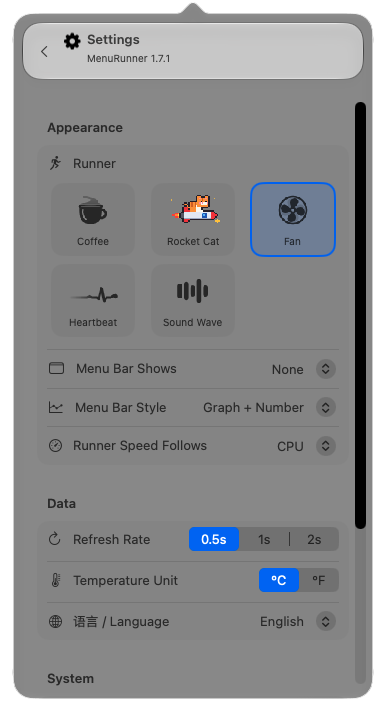
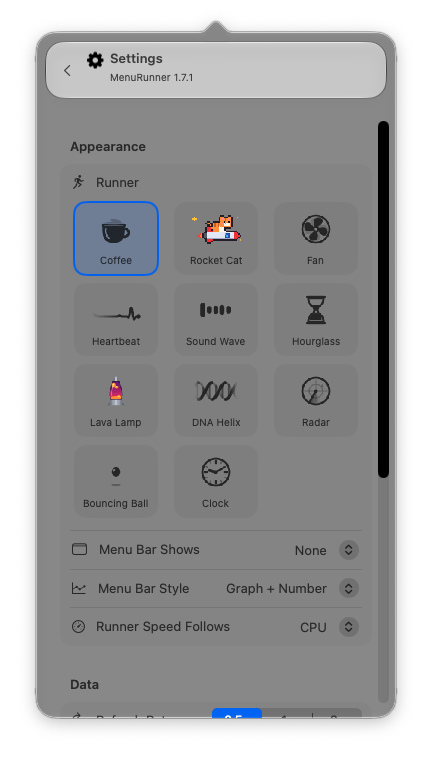
Add six runners: hourglass, lava lamp, DNA helix, radar, bouncing ball, clock
Regenerate the runner preview and settings screenshots, list the new runners
in both READMEs, and let --detail settings open the settings page.

Claude-Session: https://claude.ai/code/session_015j29UegvhJCuXw6JaCbhzY

diff --git a/Sources/App/AppDelegate.swift b/Sources/App/AppDelegate.swift
@@ -77,6 +77,7 @@ final class AppDelegate: NSObject, NSApplicationDelegate {
                     let map: [String: DetailKind] = ["system": .system, "cpu": .cpu, "gpu": .gpu, "memory": .memory, "temps": .temps,
                                                      "storage": .storage, "battery": .battery, "network": .network]
                     if let k = map[CommandLine.arguments[i + 1]] { self.panel.debugShow(k) }
+                    if CommandLine.arguments[i + 1] == "settings" { self.showSettings() }
                 }
             }
         }

diff --git a/README.md b/README.md
@@ -25,7 +25,7 @@
 
 ## Features
 
-- **Runners** — a steaming coffee cup, a colour pixel-art Rocket Cat (an orange tabby riding a rocket with a flickering flame), a spinning fan, a scrolling heartbeat line and bouncing sound-wave bars — all original designs, drawn in code; the monochrome ones are template images that adapt to light / dark menu bars. Their speed follows CPU, GPU or memory usage, in three clearly different levels: the fan spins faster with a longer trail, the bars jump higher, the steam thickens, the rocket flame grows and the heartbeat packs in more, taller beats.
+- **Runners** — a steaming coffee cup, a colour pixel-art Rocket Cat (an orange tabby riding a rocket with a flickering flame), a spinning fan, a scrolling heartbeat line, bouncing sound-wave bars, an hourglass that flips when the sand runs out, a colour lava lamp, a turning DNA double helix, a sweeping radar, a squash-and-stretch bouncing ball and a clock with spinning hands — all original designs, drawn in code; the monochrome ones are template images that adapt to light / dark menu bars. Their speed follows CPU, GPU or memory usage, in three clearly different levels: the fan spins faster with a longer trail, the bars jump higher, the steam thickens, the rocket flame grows, the heartbeat packs in more, taller beats, the sand pours faster, the lava blobs multiply, the helix gains rungs, the radar trail lengthens with more blips, the ball bounces higher and the clock hands blur.
 - **Menu bar metrics with live mini graphs** — CPU, GPU, memory, battery, network, SoC or battery temperature. Choose *Graph + Number*, *Graph only* or *Number only*.
 - **Liquid Glass panel** (`NSPopover` + `NSGlassEffectView`), animated at 60 fps:
   - Machine spec — model, chip, CPU / GPU cores, memory, disk, macOS version

diff --git a/README.zh-CN.md b/README.zh-CN.md
@@ -25,7 +25,7 @@
 
 ## 功能
 
-- **Runner**：冒热气的咖啡、彩色像素画「橘猫火箭」（橘猫骑着火箭，尾焰闪烁）、旋转风扇、滚动的心电图、跳动的音波，均为原创设计，用代码绘制；单色的是模板图，自动适配深浅色菜单栏；速度可以跟随 CPU、GPU 或内存占用，分三档、差别明显：风扇转得更快、残影更长，音波跳得更高，热气更浓，尾焰更长，心电图心跳更密、峰更高。
+- **Runner**：冒热气的咖啡、彩色像素画「橘猫火箭」（橘猫骑着火箭，尾焰闪烁）、旋转风扇、滚动的心电图、跳动的音波、漏完就翻转的沙漏、彩色熔岩灯、旋转的 DNA 双螺旋、扫描的雷达、会压扁拉伸的弹跳球、指针飞转的时钟，均为原创设计，用代码绘制；单色的是模板图，自动适配深浅色菜单栏；速度可以跟随 CPU、GPU 或内存占用，分三档、差别明显：风扇转得更快、残影更长，音波跳得更高，热气更浓，尾焰更长，心电图心跳更密、峰更高，沙子漏得更快，熔岩更多，双螺旋横档更密，雷达余晖更长、光点更多，球弹得更高，时钟指针出现拖影。
 - **菜单栏指标 + 动态小图**：CPU、GPU、内存、电池、网络、芯片或电池温度；可选「图表 + 数字」「仅图表」「仅数字」。
 - **液态玻璃面板**（`NSPopover` + `NSGlassEffectView`），60fps 动画：
   - 本机配置：机型、芯片、CPU / GPU 核心数、内存、硬盘、系统版本
